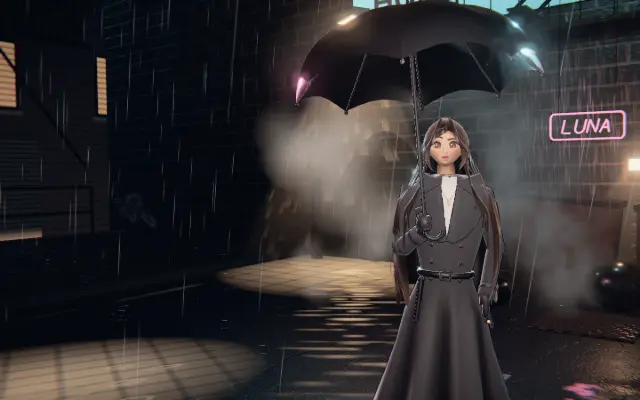
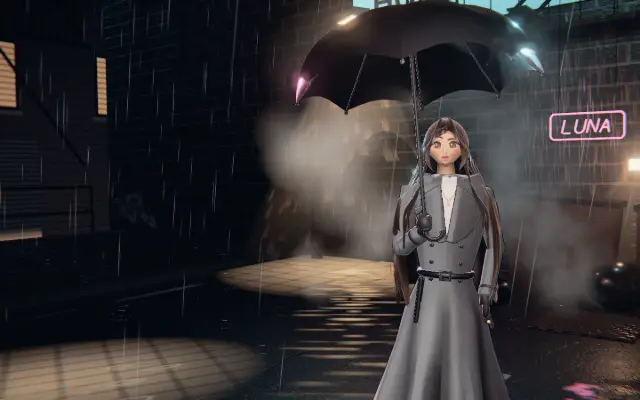
363 slice 1: NIGHT SHIFT's title coat takes its own key: a warm side key on the wool's colour and a satin sheen on the fold crests (COAT_KEY), so it reads plum-grey with its left side and belt lit; measured on a live ?shot frame (the poster hid every earlier try): D coat edge band 1.29 -> 1.53:1, 2:

Changed region(s): [[0.5625, 0.42, 0.75, 1.0], [0.75, 0.57, 0.7812, 0.75]]

diff --git a/games/cathode/src/render/frontcath.ts b/games/cathode/src/render/frontcath.ts
@@ -327,6 +327,21 @@ function inkNormals(g: THREE.BufferGeometry): void {
   g.setAttribute("inkNormal", new THREE.BufferAttribute(out, 3));
 }
 
+/**
+ * Plan item 363: the coat's key and satin. Wool lit by the street alone read as a black hole under her lit face
+ * (her coat's albedo is near black, so the street's lamps barely touch it). A warm, wide key from the lens's upper
+ * left lifts the cloth by its own colour, and a satin sheen (a soft half-vector highlight on the weave's broad
+ * normal, not its fine nap) catches the crests of the folds, the belt's roll and the shoulders that face that key.
+ * The skirt's fold shade (its vertex colours) darkens it again in the folds' troughs, so the folds read.
+ */
+const COAT_KEY = `{
+  vec3 cn = normalize( mix( nonPerturbedNormal, normal, 0.35 ) );
+  vec3 kd = normalize( vec3( -0.8, 0.25, 0.4 ) );
+  float kw = pow( saturate( dot( cn, kd ) * 0.75 + 0.25 ), 1.4 );
+  float sat = smoothstep( 0.8, 0.97, dot( cn, normalize( kd + vec3( 0.0, 0.0, 1.0 ) ) ) );
+  totalEmissiveRadiance += uCoatKey * ( 5.0 * kw * diffuseColor.rgb * vec3( 1.0, 0.9, 0.8 ) + 0.1 * sat * vec3( 1.0, 0.93, 0.86 ) );
+}`
+
 export function buildFrontCath(phone: boolean): FrontCath {
   const group = new THREE.Group();
   group.name = "front-cath";
@@ -514,6 +529,9 @@ export function buildFrontCath(phone: boolean): FrontCath {
     uKeyDir: { value: new THREE.Vector3(-0.45, 0.5, 0.75).normalize() },
     // Plan item 148: a step brighter, the noir poster's lit face (mean luminance 0.22 -> 0.25 at D).
     uKey: { value: new THREE.Color(1.0, 0.86, 0.74).multiplyScalar(phone ? 1.45 : 1.3) },
+    // Plan item 363: the coat's own key, a warm low light on the wool from the lens's left and a satin sheen on the
+    // folds that face it, so her shoulders, arms, belt and hem read against the night instead of one black mass.
+    uCoatKey: { value: 1 },
   };
   const rimA0 = rimU.uRimA.value.clone();
   const key0 = rimU.uKey.value.clone();
@@ -587,7 +605,7 @@ export function buildFrontCath(phone: boolean): FrontCath {
       Object.assign(sh.uniforms, rimU, hair ? hairRimU : {});
       sh.fragmentShader = sh.fragmentShader
         .replace("#include <opaque_fragment>", insideShade + hoodShade + skinLight)
-        .replace("#include <common>", "#include <common>\nuniform vec3 uRimDir;\nuniform vec3 uRimA;\nuniform vec3 uRimB;\nuniform vec3 uKeyDir;\nuniform vec3 uKey;\n" + (hair ? "uniform float uHairRim;\nuniform float uHairHood;\n" : "") + INK_BAND)
+        .replace("#include <common>", "#include <common>\nuniform vec3 uRimDir;\nuniform vec3 uRimA;\nuniform vec3 uRimB;\nuniform vec3 uKeyDir;\nuniform vec3 uKey;\nuniform float uCoatKey;\n" + (hair ? "uniform float uHairRim;\nuniform float uHairHood;\n" : "") + INK_BAND)
         // Plan item 254: the street's direct lights fall on her in three bands (an inked illustration's flats), not
         // a smooth Lambert falloff; the ambient and the reflections stay smooth, so the dark band still models.
         // Plan item 319: not on the face (the material with catch-lights): banded, the street's light cut her jaw and
@@ -632,6 +650,7 @@ export function buildFrontCath(phone: boolean): FrontCath {
             // Plan item 319 slice 46: a two-sided shell's inside (the Ghost's hood) takes no rim.
             ${inside < 1 ? "fr *= gl_FrontFacing ? 1.0 : 0.0;" : ""}
             totalEmissiveRadiance += ${gain.toFixed(2)} * fr * rimC;
+            ${edge === "wool" ? COAT_KEY : ""}
             ${keyTerm}
           }`,
         );

diff --git a/docs/plan/two-week-plan.md b/docs/plan/two-week-plan.md
@@ -3395,7 +3395,7 @@ The items come from fresh-eyes audits on 2026-11-01 and 2026-11-02 (items 25-32:
   - Shots P and D of all five classes.
 - **Size:** 2
 
-## 363. [ ] NIGHT SHIFT title: Cath lit as the hero, her coat readable against the night *(lane A, in progress)* *(handed back 2026-11-13 20:46 by lane B, two tries reverted. (1) Title-only live lights, a warm low key (3.8, range 3.4) and a cool rim behind her right (3.6, range 3), made no visible change: the LightPool streams a fixed number of real lights by intensity x range x distance, and the pink sign (10, range 6), cyan, sodium and neon rim outrank them. (2) A title-only lift of the coat's wool rim (`uWoolRim` 2.6x in frontcath's shader) changed the D frame by a mean 0.3/255: the coat reads black from its own cloth colour and item 319's wool rim, not for want of rim. Next: the cloth (coat base colour or a sheen term) on the title only, or one of the existing pooled lights moved low and warm; measure with the item's 2:1 edge-band test)* *(2026-11-14 04:40 lane B, the root cause of the null results: in this harness the title is the static `front-poster-*.webp` (games/cathode/public, written by `scripts/cathode-poster.mjs`), not the live scene. After 30 s the street has drawn one frame (`stats.frames` 1) and `#front-fallback` is `is-off` but still opacity 1. So the 18:30 critique judged the poster, and every lighting or cloth change on the title (two lights, a 2.6x wool rim, a slate coat, a title-only coat key `uCoatKey` 3.2: all tried this week and reverted) measured 0.3-0.5/255 against that still. To do 363: make the change, then re-render the posters with cathode-poster.mjs on a machine whose WebGL animates (or find why the title stalls after one frame under SwiftShader here), and judge the new poster and a live frame. The coat-key shader hook (a `uCoatKey` uniform on the wool's keyTerm, eased out by the wardrobe) is the most promising of the four)*
+## 363. [ ] NIGHT SHIFT title: Cath lit as the hero, her coat readable against the night *(handed back 2026-11-15 17:45 by lane A after slice 1)* *(slice 1, 2026-11-15 17:40 lane A: measured on a live frame at last: `?shot&t=8` draws the real scene (not the poster), and a script (scratchpad coatband.mjs: shoot, hide `cath.group` and `setTime` again, diff for her mask, open it to drop rain, then the 8 px bands inside and outside her silhouette over the coat's rows) gives D before 1.29:1 (coat 0.029 vs street 0.0225). The wool now takes its own key (`COAT_KEY` in frontcath.ts: a warm side key on the cloth's own colour plus a soft satin half-vector sheen on the weave's broad normal, folds darkened again by the skirt's vertex shade): the coat reads plum-grey, its left side and belt lit, D 1.53:1. Doubling the key or turning it to the side moved the band only 1.51-1.56: the band is the grazing silhouette, which no frontal key reaches, so 2:1 needs the edge itself: the wool rim (`fr = smoothstep(0.06, 0.9, fr0) * 0.5`, kept dim after item 319's vinyl critique) or a darker street just behind her. The P measure is not trusted yet (the bare re-render at DPR 2 came back as a different framing; outside 0.33). NIGHT SHIFT key art re-shot. Shots scratchpad a363 (before, k1-k3))* *(handed back 2026-11-13 20:46 by lane B, two tries reverted. (1) Title-only live lights, a warm low key (3.8, range 3.4) and a cool rim behind her right (3.6, range 3), made no visible change: the LightPool streams a fixed number of real lights by intensity x range x distance, and the pink sign (10, range 6), cyan, sodium and neon rim outrank them. (2) A title-only lift of the coat's wool rim (`uWoolRim` 2.6x in frontcath's shader) changed the D frame by a mean 0.3/255: the coat reads black from its own cloth colour and item 319's wool rim, not for want of rim. Next: the cloth (coat base colour or a sheen term) on the title only, or one of the existing pooled lights moved low and warm; measure with the item's 2:1 edge-band test)* *(2026-11-14 04:40 lane B, the root cause of the null results: in this harness the title is the static `front-poster-*.webp` (games/cathode/public, written by `scripts/cathode-poster.mjs`), not the live scene. After 30 s the street has drawn one frame (`stats.frames` 1) and `#front-fallback` is `is-off` but still opacity 1. So the 18:30 critique judged the poster, and every lighting or cloth change on the title (two lights, a 2.6x wool rim, a slate coat, a title-only coat key `uCoatKey` 3.2: all tried this week and reverted) measured 0.3-0.5/255 against that still. To do 363: make the change, then re-render the posters with cathode-poster.mjs on a machine whose WebGL animates (or find why the title stalls after one frame under SwiftShader here), and judge the new poster and a live frame. The coat-key shader hook (a `uCoatKey` uniform on the wool's keyTerm, eased out by the wardrobe) is the most promising of the four)*
 - **Why:** `plan1113b/ns-title-D` (860-1140 x 380-900): her coat merges into the dark street. No rim or key light touches her shoulders, arms or hem, and her legs and lower coat are a black mass: a lit face on a hole. `ns-title-P` (195-330 x 290-700) is the same, the coat lost against the brick and LUNA's glow. Item 319 covers her sculpt and 331 the left half; neither lights her figure.
 - **Build:** a cool rim light from LUNA's side and a warm low key from a streetlamp; a faint satin sheen on the coat so its folds and belt read; a wet-ground reflection of her silhouette and the umbrella; a little separation haze behind her.
 - **Accept:**

diff --git a/PROGRESS.md b/PROGRESS.md
@@ -5,7 +5,7 @@ Short by design (SPEC 16: under 150 lines). v1's full history (M0 to M7, every s
 ## Now
 - E2E red on hedgerow-water (11-15 04:35) fixed by lane A 05:10: the spec samples Rivermead's willow pond (level 31); Saltmarsh's salt pan is pink brine by design (item 399).
 - Owner session (11-09): the owner's release never landed and the pause ended 11-11 02:00 UTC. **Open:** Hedgerow level 12 at D: since item 250's portrait the bubble covers 21% of empty plots; the D bound is 30% there until the placement is reworked.
-- Lane A (15:51 11-15): E2E red fixed (hedgerow-water: item 419's surf consumed the decoration seed and moved Rivermead's pond pads); item 422 done. Unclaimed open: 319, 331, 363 (346 is lane B's): at fewer than 3 the next session plans. `desktop-no-scroll` round-7 failed once on ed973c12 with no Cathnivore change (watch for a flake). `main` is 49f7890f; the next release is 19:51 on 11-15 (lane A).
+- Lane A (16:51 11-15): item 363 slice 1 (the coat's own key and satin; D edge band 1.29 -> 1.53:1, needs 2:1: the silhouette edge, not the key), handed back. Open, unclaimed: 319, 331, 363: the next session may plan. `main` is 49f7890f; the next release is 19:51 on 11-15 (lane A).
 - Critique bugs from the 09:35 shots (`e2e/screenshots/plan1103d/`): NIGHT SHIFT wordmark 'H's: closed 2026-11-07 06:30 (lane A: whole at L and D at 8 s and 20 s; the SVG path, no dash left). Runnel P's spring house and garden: closed 2026-11-04 (item 106).
 - Lane B (16:55): item 346 closed (Cath in the phone frame kept as a deviation: item 215's depot frame and the 24 px face rule win). Open, unclaimed: 319, 331, 363 (NIGHT SHIFT's 3D Cath and title); one more claim and the next lane plans.
 - Critique bugs from the 2026-11-08 08:15 shots (`e2e/screenshots/plan1108b/`, lane A): `hedge-menu-D` the act-4 'Beyond the hedge' note cut at the viewport foot (527-913 x 850-900, likely just the scroll); `hedge-menu-P` Hollowell boards beside 'The Unboxing' (10-100 x 380-405) and 'Golden Hour' (10-100 x 455-480), a block against 'Brand Ambassador' (320-385 x 515-555). The rest went into items 282, 283, 287 and 288.
@@ -38,6 +38,7 @@ None (Vercel deployed 9aee11e on 2026-10-12). (The App Store launch is postponed
 - 2026-10-30 `cf93bfb`: gates 1-8 passed, live verified (deploy untagged, 403).
 
 ## Session log (newest first, last 15)
+- **2026-11-15 16:51 lane A session:** CI green on 7a487f28. Item 363 slice 1: a live-frame coat measure (`?shot&t=8` draws the real scene, not the poster; mask by hiding her and re-rendering), then `COAT_KEY` on her wool (warm side key on the cloth's colour, satin sheen on fold crests): coat reads plum-grey with its left side and belt lit, D edge band 1.29 -> 1.53:1 (2:1 needs the silhouette edge; logged). NIGHT SHIFT key art re-shot. Handed back. No full `npm run check` (CI covers it).
 - **2026-11-15 15:51 lane A session:** E2E red on ed973c12 fixed (the surf drew from `deco()` before the pond pads; its own stream now; hedgerow-water passes). Item 422 done (slice 2): at P she stands 45%+ of the screen (Ghost 293 -> 389 px) via a compact gun plate in the dossier, a taller stage and 20 cm head room; the Ghost's rifle against her thigh; key angles and crossfade asserted. classpick/classpose/classstage pass P and D.
 - 2026-11-15 16:22 lane B: item 346 closed. Tried bringing Cath into the phone's opening 3D frame (a slide toward her, then easing the zoom out): at zoom 1.2 both fit but her face fell to 16.6 px (cath3d's 24) and the depot to 57% (depot3d's 65%); held to their rules she stays out on l21/l34, so reverted and logged. The phone's coastal band was 1.25x the field after item 419's sand: toned down to 1.21 (the rest is tidal water). country3d, 3dframe, water, cath3d, depot3d pass.
 - 2026-11-15 15:24 lane B: item 419 done (slices 4-5): the 3D margin measured through a new sandbox hook (`margin3d`) and a spec over every act's first level (0-1.6% of the land past the hedge still plain grass, 80-164 props); Rivermead's, the Rift's and the Merger's country grounds re-picked (they darkened onto their grass); the country fully in by one cell out; Saltmarsh's dunes. 3D specs pass; shots `b419`.

diff --git a/DECISIONS.md b/DECISIONS.md
@@ -392,3 +392,4 @@ Newest at the bottom. At most 5 lines per entry, under 250 lines in all (SPEC 16
 - 2026-11-15 16:55 lane B (item 346): Cath is not forced into the phone's opening 3D frame: doing so needed zoom 1.2, which broke the 24 px face rule (hedgerow-cath3d) and the depot's 65% (hedgerow-depot3d); item 215's gate frame stands, her tray portrait represents her on a phone.
 - 2026-11-15 16:55 lane B (item 346): the phone's left band at 1.21x the field's luminance is accepted (target 1.15): it is pale tidal water and sand, not the haze the item was about.
 - 2026-11-15 16:55 lane B: lesson from lane A's fix d40c9c5: new 3D props draw from their own random stream, never the shared decoration seed, so earlier props (and specs that sample them) don't move.
+- 2026-11-15 17:45 lane A (item 363): the title's lighting is judged on `?shot&t=8` (a live draw), not the poster; Cath's mask comes from re-rendering with `cath.group` hidden. The coat keeps a dim wool rim (item 319's vinyl critique), so the 2:1 edge band is not reached by a key: the next step is the edge itself.
